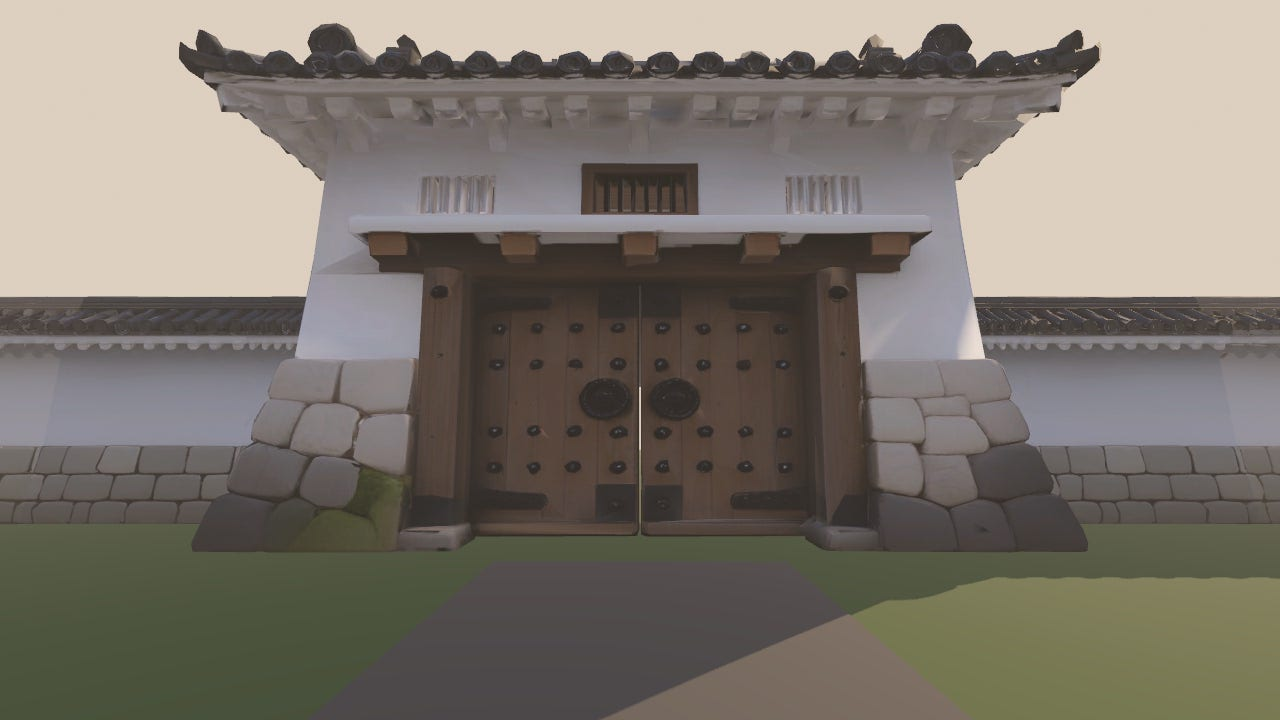
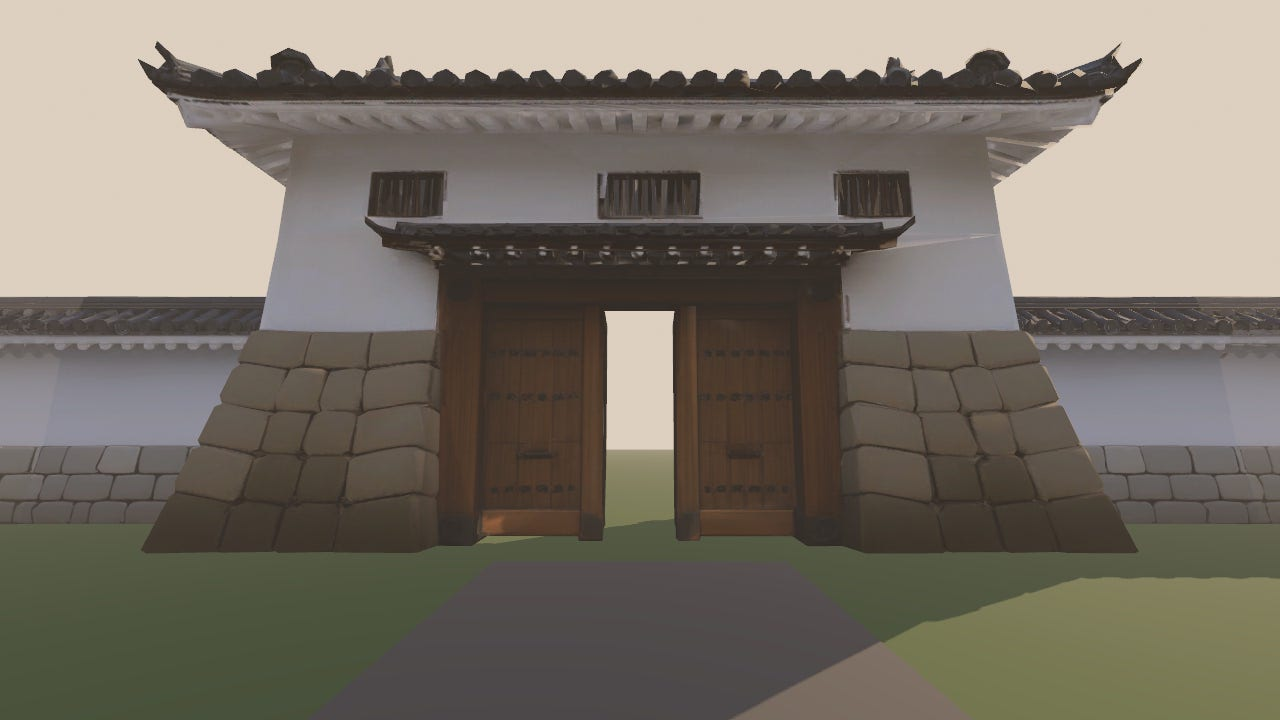
Courtyard docs: batch 4 + LOD rework (DEVIATIONS #29-#33, INTEGRATION_PLAN §14, final 16-item inventory, credits, screenshots 01-15)

diff --git a/docs/courtyard/DEVIATIONS.md b/docs/courtyard/DEVIATIONS.md
@@ -39,8 +39,13 @@ The deviations below are about file locations, graybox detail and fitting the de
 | 24 | P5 / P6 bridge spurs: straight strips z −10 → 10 across the pond | Each strip is split into `<name>N` (z −10 → −5) and `<name>S` (5 → 10); nothing is drawn over the water. | With the real slab deck at y 0, P6's strip sat 2 cm above the deck and hid it; P5's strip floated over the water under the arch. Visual only; nav and colliders unchanged. |
 | 25 | Slab bridge `BRIDGE_SLAB` at (26, 0, 0), yaw 90, 11 × 0.4 × 2.0 m, "1 deck box + 2 rails" | BJORN's `bridge_stone_slab_deck2m.glb` (deck 2.0 m wide) rather than the main `bridge_stone_slab.glb` (2.667 m). Only the variant is copied (`sync_assets.py --apply bridge_stone_slab --variant deck2m`; `MODEL_VARIANT` makes the generator load it), so the main filename is never needed in the repo. `model_offset` y −0.394: deck top at y 0.000 (−0.005 … +0.002 along the walkable deck; the last few cm bevel to −0.05), supports bottom out at −0.394 (0.094 m under the water at −0.30). Rails are **invisible** box colliders at x ±1.075 from the centre, top 0.90 m above the deck. `AUTHORED_SIZE` 11 × 0.4 × 2.667 for the size check (the GLB's AABB includes the support blocks). | Kirk's instruction (8:38 PM). The model has no visible rails, so the rail colliders are invisible walls; BJORN asked for visible rails or a note. The deck ends overlap the banks by 0.5 m and sit under the path strips, so there is no lip or z-fight. Checked: nav crossing PASS (path low y 0.40 on the navmesh, 16.0 m, within 1 m of x 26 over the pond), rails 0.90 m above the deck at all 10 probe points, camera clearance PASS on the deck. The v1 slab albedo (mean RGB 150/150/139) read near-white in sunlight next to the wall stone; BJORN's albedo v2 (LOD pack, mean 112/108/95) replaces it, same mesh and fit (the `_v1` backups in his library are not copied). Rails stay invisible 0.9 m colliders, confirmed as Bill's design. |
 | 26 | Trees at node scale (1, 1, 1): pine 6 × 7 × 6, maple 5 × 5 × 5 (Bill's boxes); PINE3 yaw 134, PINE6 yaw 335 (batch 3 used 88 / 312, #23) | Per BJORN's LOD-pack handoff the model node is scaled non-uniformly: pine (1, 1, 1.3) → 6.25 × 7 × 4.66 m, maple (1.237, 1, 1.238) → 5 × 5 × 5 m (`MODEL_FIT` `scale_xyz`; the prefab's trunk collider is unchanged). With the deeper pine canopy PINE3 at yaw 88 clipped the east wall WE11 by 0.01 m and PINE6 at 312 clipped the NE turret TNE by 0.04 m, so the yaws were re-searched over 360° (`tree_fit.py`, eave-inclusive AABBs): **PINE3 92, PINE6 304**, the best clearances available, **0.10 m and 0.05 m** (batch 3 had ≥ 0.25 m). Positions unchanged. | Kirk's instruction (9:35 PM). `tree_fit.py`: 0 clips at 0.05 m margin. Check: all trees outside the 40 × 40 combat square, spawns / routes / camera clearance PASS. The small clearances are canopy-to-eave in the air (no collision, canopies don't collide); worth a windowed look at PINE3 / PINE6. |
-| 27 | No LODs in the blueprint; batch 2/3 used Godot's generated mesh LOD (walls `lod_bias` 0.3) and tree `visibility_range_end` 100 m (#21) | BJORN's hand-made LODs are wired as distance LODs: each prefab's Model holder has children LOD0…LODn with `visibility_range_begin/end`, **FADE_SELF** dithered crossfade, each level begins where the previous ends with margin = fade width (`courtyard_prop.gd` `model_lod_*`, `gen_graybox.MODEL_LODS`). Distances (camera to mesh AABB centre): **wall** lod1 20 m / lod2 45 m (fade 2 m); **turret** 30 / 60 m; **barracks** 30 / 55 m; **kura** 25 / 50 m; **trees** lod3k 25 m (fade 3 m). The wall `lod_bias` 0.3 and tree vis_end 100 m are removed (trees are now drawn at any distance). The tree lod3k files and `corner_turret_lod1` reuse LOD0's materials (same UVs; their embedded textures are discarded on import, `vram_textures.py`), so they add no textures to git or VRAM; the other LODs have rebaked textures/UVs and keep their own. Tree LOD size check is ±15% (others ±5%) because the pine lod3k canopy is 12% shallower in z than LOD0. | Kirk's instruction (9:35 PM): third-person camera (4.2 m arm), 80 m compound — LOD0 covers the combat area around the player, lod1 mid-compound, lod2 the far walls and long views. Check: every level on every instance, 1 shared mesh per level, contiguous ranges, AABB within tolerance and centre offset < 0.15 m. Mixed wall LODs: all three span x −2.000…2.000 at the same height; joint outline steps at LOD0/LOD1/LOD2 joints are no worse than LOD0/LOD0 (`wall_lod_seams.py`); no gap seen in screenshot 08. |
-| 28 | Rocks: `ROCKL1–4` 3 × 2 × 2.5 m, collider "box 2.6 × 1.8 × 2.1"; `ROCKS1–10` 0.8 × 0.4 × 0.6 m, collider "none" | BJORN batch 4 rocks, main and `_b` variant alternating over Bill's instances (`INSTANCE_VARIANT`: ROCKL2/4 and the even ROCKS use `_b`, each with its own prefab `<asset>_b.tscn`). Scales: `rock_formation_large` 1.0, `_b` 0.9; both clusters 0.9 (BJORN: 0.85–1.0). Collision is **one box per variant**, fitted to the model's vertices above y 0.3 m (the moss skirt below is walk-through), full model height — the small clusters get a box too (Bill had none). Size check tolerance per axis −25…+10% (large) and −40…+25% (clusters) (`SIZE_TOL`), since natural rock shapes don't fill Bill's box: large 2.78 × 1.98 × 2.70 (−7 / −1 / +8%), large_b 3.06 × 1.94 × 1.99 (+2 / −3 / −21%), cluster 0.60 × 0.43 × 0.57 (−25 / +9 / −4%), cluster_b 0.52 × 0.50 × 0.52 (−35 / +24 / −14%). Small clusters are culled beyond 45 m (+5 m margin); Bill's MultiMesh note for the small rocks is not used (10 instances, 2 meshes). `rock_medium` stays graybox (BJORN is regenerating it). | Kirk's instruction (9:35 PM: simple box/convex collision, low-poly only, keep the nav cull above 1.8 m). Check: nav cull unchanged (0 navmesh vertices above 2 m), every small cluster can be walked round (1.5 m ring, paths < 10 m, longest 5.6 m), all rocks outside the combat square, collider tops within 5% of the model height and footprints inside the model. |
+| 27 | No LODs in the blueprint; batch 2/3 used Godot's generated mesh LOD (walls `lod_bias` 0.3) and tree `visibility_range_end` 100 m (#21) | BJORN's hand-made LODs are wired as distance LODs: each prefab's Model holder has children LOD0…LODn with `visibility_range_begin/end`, **FADE_SELF** dithered crossfade, each level begins where the previous ends with margin = fade width (`courtyard_prop.gd` `model_lod_*`, `gen_graybox.MODEL_LODS`). Distances (camera to mesh AABB centre): **wall** lod1 20 m / lod2 45 m (fade 2 m); **turret** 30 / 60 m; **barracks** 30 / 55 m; **kura** 25 / 50 m (since #33: LOD0 → lod2 at 35 m, no lod1); **trees** lod3k 25 m (fade 3 m). The wall `lod_bias` 0.3 and tree vis_end 100 m are removed (trees are now drawn at any distance). The tree lod3k files and `corner_turret_lod1` reuse LOD0's materials (same UVs; their embedded textures are discarded on import, `vram_textures.py`), so they add no textures to git or VRAM; the other LODs have rebaked textures/UVs and keep their own. Tree LOD size check is ±15% (others ±5%) because the pine lod3k canopy is 12% shallower in z than LOD0. (Superseded by #33: wall/barracks lod1 now share LOD0's textures too, and the tree check is back to ±5% since BJORN's corrected pine lod3k matches LOD0.) | Kirk's instruction (9:35 PM): third-person camera (4.2 m arm), 80 m compound — LOD0 covers the combat area around the player, lod1 mid-compound, lod2 the far walls and long views. Check: every level on every instance, 1 shared mesh per level, contiguous ranges, AABB within tolerance and centre offset < 0.15 m. Mixed wall LODs: all three span x −2.000…2.000 at the same height; joint outline steps at LOD0/LOD1/LOD2 joints are no worse than LOD0/LOD0 (`wall_lod_seams.py`); no gap seen in screenshot 08. |
+| 28 | Rocks: `ROCKL1–4` 3 × 2 × 2.5 m, collider "box 2.6 × 1.8 × 2.1"; `ROCKS1–10` 0.8 × 0.4 × 0.6 m, collider "none" | BJORN batch 4 rocks, main and `_b` variant alternating over Bill's instances (`INSTANCE_VARIANT`: ROCKL2/4 and the even ROCKS use `_b`, each with its own prefab `<asset>_b.tscn`). Scales: `rock_formation_large` 1.0, `_b` 0.9; both clusters 0.9 (BJORN: 0.85–1.0). Collision is **one box per variant**, fitted to the model's vertices above y 0.3 m (the moss skirt below is walk-through), full model height — the small clusters get a box too (Bill had none). Size check tolerance per axis −25…+10% (large) and −40…+25% (clusters) (`SIZE_TOL`), since natural rock shapes don't fill Bill's box: large 2.78 × 1.98 × 2.70 (−7 / −1 / +8%), large_b 3.06 × 1.94 × 1.99 (+2 / −3 / −21%), cluster 0.60 × 0.43 × 0.57 (−25 / +9 / −4%), cluster_b 0.52 × 0.50 × 0.52 (−35 / +24 / −14%). Small clusters are culled beyond 45 m (+5 m margin); Bill's MultiMesh note for the small rocks is not used (10 instances, 2 meshes). `rock_medium` was graybox here; BJORN's regenerated boulder replaced it in batch 4 (#32). | Kirk's instruction (9:35 PM: simple box/convex collision, low-poly only, keep the nav cull above 1.8 m). Check: nav cull unchanged (0 navmesh vertices above 2 m), every small cluster can be walked round (1.5 m ring, paths < 10 m, longest 5.6 m), all rocks outside the combat square, collider tops within 5% of the model height and footprints inside the model. |
+| 29 | Pond rim `PSTONE1–7`: 2 × 0.5 × 0.8 m on the pond ellipse, Bill's (x, z, yaw); collider "none (pond fence handles blocking)" | BJORN's batch 4 `pond_edge_stones_2m` (+ `_b` on PSTONE2/4/6). His stones are low (main 0.226 m, `_b` 0.284 m tall), so the node is scaled **main (1, 2.0, 1.4)**, **`_b` (1, 1.6, 1.4)** (Kirk suggested ~(1, 1.6, 1.4); the main file needs 2.0 in Y to reach the same height) and sunk 0.32 m: every stone spans y −0.32 … +0.13 (water −0.30, bank 0.00), 2.00 × 0.45 × 0.62 / 0.69 m (Bill 0.5 × 0.8: depth −22 / −14%, size tolerance −25…+10%). **Moved off the slab bridge:** PSTONE3 (28.40, 4.7, yaw 162; Bill x 28.12 was 0.03 m into the slab), PSTONE4 (24.30, 1.29, yaw 90; Bill 24.69 / 106 was 0.47 m into the slab), PSTONE5 (24.30, −1.29, 90; Bill 0.35 m in), PSTONE6 (28.40, −4.7, 18; Bill 0.01 m in) — `PLACE_OVERRIDE`, `tools/courtyard/pond_fit.py`. **Collision: one box per stone** in `Collision/PondStones`, fitted to the model at node scale (Kirk: "use simple collision"; Bill had none). | Kirk's batch 4 instruction (10:37 PM). `pond_fit.py`: clear (PSTONE3 0.43 m from the arch, 0.25 m from the slab; PSTONE6 0.39 / 0.27 m). Check: 0 stone colliders over either bridge's ends or the P5 / P6 paths, 0 overlaps with bridge colliders, no navmesh on any stone (nearest 0.80 m), pond basin still not navigable, no coplanar faces with the bank or water (stones cross both planes; no z-fighting seen in shots 10 / 11). PSTONE1 sits half over the water on the east side, as on Bill's ellipse. |
+| 30 | `SHRUB1–12` shrub_azalea 1.6 × 1.0 × 1.6 m, collider "none", MultiMesh suggested | BJORN's `shrub_azalea` (+ `_b` on the even shrubs), node Y ×1.2 → 1.49 × 1.30 × 1.48 m (−7 / **+30** / −8%; tolerance −10…+31%). The main file is sunk 0.08 m to hide its stem cone. **No collision** (Bill's spec, agent3_handoff); hidden beyond 45 m (+5 m margin). Plain instances, not MultiMesh (12 instances, 2 meshes). | Kirk's instruction. Check: 12 placed (6 `_b`), 0 collision shapes, spawns / routes / camera clearance PASS. |
+| 31 | `GATE` main_gate_yaguramon 16 × 10 × 8 m at (0, 34), yaw 180, "box (doors closed)" | `main_gate_yaguramon_wide.glb` (15.34 × 10.43 × 8.32 m, −4 / +4 / +4%) replaces the 14.67 m gate; BJORN's doors are on the GLB's +Z face, placed at Bill's yaw 180 like the old gate (doors on the courtyard side; they are modelled slightly ajar). Closed-door **blocking box** refitted to the mesh: x ±7.08, z 30.16 … 37.82, h 10.43 (was ±6.76, 30.68 …, 10.91). The old gate GLB and its 3 textures are removed from the repo (not referenced). **Gate-side fillers:** the side walls are a battered shell (outer face x 7.09 at the ground, 6.17 at the wall top), still short of the wall runs' ends at x ±8, so both fillers (WS07_FillB, WS08_FillA) stay, shortened from 2.2 m to **2.0 m** (inner edge x ±6.0). **Gap the fillers cover, before → after:** ground 1.22 → **0.92 m**, wall top (4.74 m) 2.30 → **1.83 m** per side. No filler could be removed. | Kirk's batch 4 instruction. Check: gate collider at z 30.16, gate roof not walkable, GateC/W/E spawns and routes PASS; shots 05, 12, 13 show the gate-to-wall joints closed from both sides. |
+| 32 | `ROCKM1–8` rock_medium 1.5 × 1.0 × 1.2 m, collider "box 1.3 × 0.9 × 1.0" (was graybox in #28) | BJORN's regenerated low boulder (exactly 1.50 × 1.00 × 1.20 m), sunk 0.03 m, at Bill's 8 positions and yaws. One box collider **1.44 × 0.98 × 1.10 m** (top 0.95 m), fitted inside the model rather than Bill's 1.3 × 0.9 × 1.0, so the player doesn't visibly stand off the rock. `rock_medium_stool.glb` is not copied. | Kirk's instruction (sink 0.02–0.05 m, one box). Check: 8 placed, all outside the combat square, collider inside the model. |
+| 33 | LODs per #27: wall/barracks/kura lod1 with rebaked textures | BJORN's texture-sharing rework: **wall lod1 (7,588 tris), barracks lod1 (8,650), turret lod1 (5,400) and all three tree lod3k reuse LOD0's textures** (the GLBs reference LOD0's extracted files by URI; `model_lod_share_materials`). wall / barracks / kura **lod2** keep their own 256 px textures (JPEG albedo). **Kura lod1 dropped** (5,446 tris, 91% of LOD0): kura goes LOD0 → lod2 at **35 m** (was lod1 25 / lod2 50). The old extracted lod1 / lod2 textures are removed. Tree LOD size tolerance tightened from ±15% to **±5%** (pine lod3k now matches LOD0: 0%, maple −3.7%, sakura −1.7%). Barracks lod1 / lod2 sit at y 0 with full height. | Parent/BJORN LOD rework (10:46 PM). The seam-preserving lod1s are heavier (wall 5,000 → 7,588, barracks 5,379 → 8,650), so primitives per view rose 2–31% while git and texture memory fell. `wall_lod_seams.py`: LOD0\|LOD1 joint p90 0.932 (was 0.954; LOD0\|LOD0 baseline 0.949), LOD2 joints unchanged. Turret lod1 still floats 1.3 cm (BJORN item). `ref_check.gd`: 0 broken, 0 unreferenced. |
 
 ## Fixed: rotation bug in the generator (affects the first graybox commit `ffcf394`)
 `gen_graybox.py` wrote the basis into the `Transform3D(...)` literal column by column, but

diff --git a/docs/courtyard/INTEGRATION_PLAN.md b/docs/courtyard/INTEGRATION_PLAN.md
@@ -469,3 +469,85 @@ and `08_wall_lod_seam` (LOD0/LOD1 wall boundary). Seen in the screenshots: LOD b
 in the tinted views, no gap at the wall LOD boundary, slab less white, rocks seated on the ground
 (the grey spheres are graybox `rock_medium`). Crossfade quality and popping need a windowed,
 moving-camera look; a headless/llvmpipe still frame can't show them.
+
+## 14. BJORN batch 4 final and the LOD texture-sharing rework (Oct 30, 2026, ~11:00 PM EDT)
+Integrated from `/workspace/kengeki_assets/library/Courtyard/` (read only; HANDOFF batch 4 notes and the
+corrected LOD section). This completes Bill's 16-item inventory: every item is placed with a BJORN mesh, no
+graybox stand-ins remain (final table in `environment/courtyard/assets/ASSETS.md`).
+
+**Pond stones (DEVIATIONS #29).** `pond_edge_stones_2m` + `_b`, 7 stones, node scale main (1, 2.0, 1.4) /
+`_b` (1, 1.6, 1.4), sunk 0.32 m so each stone crosses the water and bank planes (no coplanar faces).
+PSTONE3–6 moved 0.1–0.4 m off the slab bridge (Bill's spots were 0.01–0.47 m inside it; `pond_fit.py`).
+One box collider each (`Collision/PondStones`); none over the bridge ends or the P5/P6 paths; the basin
+stays non-walkable.
+
+**Shrubs (#30).** `shrub_azalea` + `_b`, 12 shrubs, Y ×1.2, main sunk 0.08 m, no collision (Bill's
+spec), hidden beyond 45 m.
+
+**Gate (#31).** `main_gate_yaguramon_wide.glb` (15.34 m) replaces the 14.67 m gate (removed from the
+repo). Closed-door blocking box refitted (x ±7.08, z 30.16…37.82, h 10.43). It is still short of the wall
+ends at x ±8, so both gate fillers stay, shortened 2.2 → 2.0 m. Gap per side: ground 1.22 → 0.92 m,
+wall top 2.30 → 1.83 m.
+
+**rock_medium (#32).** BJORN's 1.5 × 1.0 × 1.2 m boulder at Bill's 8 positions, sunk 0.03 m, one box
+collider 1.44 × 0.98 × 1.10 m. `rock_medium_stool` not copied.
+
+**LOD rework (#33).** Wall lod1 (7,588), barracks lod1 (8,650), turret lod1 and the three tree lod3k use
+LOD0's texture files (no textures of their own); wall/barracks/kura lod2 have their own 256 px textures
+(JPEG albedo). Kura lod1 dropped: LOD0 → lod2 at 35 m. Old extracted lod1/lod2 textures removed. Tree
+LOD size check back to ±5%. Wall seams (`wall_lod_seams.py`): LOD0|LOD1 joint p90 0.954 → 0.932 m
+(LOD0|LOD0 baseline 0.949), LOD2 joints unchanged.
+
+**Checks (headless, not visual/gameplay verification).** `check_courtyard.gd` PASS, 318 checks, 0 FAIL
+(navmesh 442 polygons / 404 vertices, 0 above 2 m; spawns, routes, camera clearance, combat area,
+pond basin, bridge crossings, gate collider, the new pond stone / shrub / rock_medium / filler checks).
+`ref_check.gd` (new): 113 roots, 223 resources reached, 0 broken references, 0 unreferenced courtyard
+textures/GLBs (the unused 25k lantern is allowlisted, DEVIATIONS #14). Gameplay tests 109 passed /
+8 failed (the same 8 pre-existing character/animation/sheathe failures).
+
+**Budget** (`python3 tools/courtyard/asset_budget.py --files`):
+
+| | Before (`a3288d7`) | After batch 4 + LOD rework |
+|---|---|---|
+| Scene triangles at LOD0 (instanced) | 1,433,382 (170,120 unique) | 1,487,064 (180,066 unique) |
+| Triangles drawn from the combat centre (LOD selection, no frustum culling) | 443,062 | 586,307 |
+| Texture VRAM (BJORN assets, compressed) | 54.53 MB | 53.96 MB |
+| Git cost (referenced GLBs + extracted textures) | 100.57 MB | 91.23 MB |
+
+Git cost without the batch 4 additions (stones 2.69, shrubs 3.48, rock_medium 0.72, wide gate +0.77
+over the old gate) is 83.57 MB, in line with BJORN's ~83.9 MB estimate for the LOD rework alone. With
+batch 4 but the old LODs it was 108.24 MB. The drawn-from-centre count rises because the seam-preserving
+lod1s are heavier (wall 5,000 → 7,588 × 78 instances) and batch 4 adds ~30k triangles near the centre.
+Not counted: the unreferenced 25k lantern (18.80 MB in git).
+
+**Render cost** (windowed llvmpipe, primitives include shadow passes):
+
+| View | Draw calls before → after | Primitives before → after |
+|---|---|---|
+| 01 overview from gate | 86 → 88 | 360,332 → 413,568 (+15%) |
+| 02 combat centre, eye height | 56 → 54 | 284,929 → 309,504 (+9%) |
+| 03 pond + arch bridge | 76 → 78 | 464,567 → 610,355 (+31%) |
+| 04 wall / turret seam | 26 → 26 | 545,356 → 555,708 (+2%) |
+| 05 gate interior | 18 → 18 | 331,138 → 344,078 (+4%) |
+| 06 keep backdrop | 33 → 33 | 404,668 → 484,998 (+20%) |
+| 07 LOD overview | 118 → 114 | 566,876 → 654,064 (+15%) |
+| 08 wall LOD seam | 101 → 103 | 720,964 → 800,030 (+11%) |
+| 09 long-range | 83 → 78 | 234,573 → 241,133 (+3%) |
+| **Total 01–09** | **597 → 592** | **3,913,403 → 4,413,438 (+13%)** |
+| 10 pond stones close (21.5, 1.9, −7.5 → 28, 0, 0) | new | 79 / 642,573 |
+| 11 pond stones east (33, 1.6, 6.5 → 30, 0, −1) | new | 113 / 662,936 |
+| 12 gate exterior (10, 3, 48 → 0, 4, 34) | new | 81 / 600,452 |
+| 13 gate seam close (−11, 2, 27.5 → −7, 3, 32) | new | 39 / 452,874 |
+| 14 shrubs + rock close (19, 1.7, −8 → 24, 0.5, −12) | new | 84 / 916,523 |
+| 15 shrub + rock west (−22, 1.7, −14 → −27, 0.5, −19) | new | 45 / 587,338 |
+
+Split for 01–06 (batch 4 with the old LODs, then the LOD rework): batch 4 alone took the total from
+2,390,990 to 2,487,530 (+4%), the heavier lod1s to 2,718,211 (+9%).
+
+**Screenshots** replaced (`docs/courtyard/screenshots/`, `/workspace/kengeki_shots/`); the previous set is
+in `/workspace/kengeki_shots/before_batch4/`. Seen in the stills: stones line the pond with no visible
+z-fighting (they read pale, and one top has a dark patch); shrubs read well with a slightly dark base ring;
+rock_medium sits on the ground; the gate meets the walls with no gap from inside (05, 13) or outside (12);
+LOD bands in the tinted views as expected (kura shows lod2 in the lod1 colour, since it has only one
+lower level); no gap at the wall LOD boundary (08). Crossfades and popping need a windowed,
+moving-camera look.

diff --git a/environment/courtyard/assets/ASSETS.md b/environment/courtyard/assets/ASSETS.md
@@ -48,3 +48,35 @@
[3 lines of base64/hex data omitted]
+
+## Final inventory against Bill's 16 items (batch 4 complete, Oct 30, 2026 ~11:00 PM EDT)
+All 16 of Bill's inventory items, plus his two reuse items, are placed with BJORN's meshes; no graybox stand-ins
+remain. Triangles are per mesh (LOD0 / LODs). Git is the committed GLB plus its extracted textures, in MB
+(`python3 tools/courtyard/asset_budget.py --files`). Deviation numbers refer to `docs/courtyard/DEVIATIONS.md`.
+The copy ledger above is append-only: where a file appears twice the later row is current, and the rows for
+`main_gate_yaguramon.glb` and `storehouse_kura_lod1.glb` are history (both removed in `5af7d00`).
+
+| # | Bill's item | Placed | Instances (Bill) | File(s) in the repo | Tris LOD0 / LODs | Git (MB) | Deviations |
+|---|---|---|---|---|---|---|---|
+| 1 | wall_segment_4m | Yes | 78 (68 + 10 fillers) | `wall_segment_4m.glb`, `_lod1.glb` (shares LOD0 textures), `_lod2.glb` | 13,134 / 7,588 / 404 | 5.94 | #6, #13, #16, #20, #21, #27, #31, #33 |
+| 2 | main_gate_yaguramon | Yes | 1 (1) | `main_gate_yaguramon_wide.glb` | 20,000 | 5.89 | #13, #20, #31 |
+| 3 | corner_turret | Yes | 4 (4) | `corner_turret.glb`, `_lod1.glb` (shared), `_lod2.glb` | 12,000 / 5,400 / 1,997 | 7.04 | #13, #20, #27, #33 |
+| 4 | main_hall_goten | Yes | 1 (1) | `main_hall_goten.glb` | 25,000 | 6.23 | #15, #20 |
+| 5 | bridge_arched_taikobashi | Yes | 1 (1) | `bridge_arched_taikobashi.glb` | 8,000 | 4.59 | #8, #17 |
+| 6 | barracks_nagaya | Yes | 1 (1) | `barracks_nagaya.glb`, `_lod1.glb` (shared), `_lod2.glb` | 12,000 / 8,650 / 1,978 | 5.83 | #15, #18, #27, #33 |
+| 7 | storehouse_kura | Yes | 1 (1) | `storehouse_kura.glb`, `_lod2.glb` (lod1 skipped) | 6,000 / 1,000 | 5.25 | #15, #27, #33 |
+| 8 | castle_keep_tenshu | Yes | 1 (1) | `castle_keep_tenshu.glb` | 20,000 | 5.30 | #18 |
+| 9 | bridge_stone_slab | Yes | 1 (1) | `bridge_stone_slab_deck2m.glb` (albedo v2) | 2,000 | 5.50 | #24, #25 |
+| 10 | tree_pine_kuromatsu | Yes | 6 (6) | `tree_pine_kuromatsu.glb`, `_lod3k.glb` (shared) | 12,000 / 4,000 | 6.65 | #23, #26, #27, #33 |
+| 11 | tree_sakura | Yes | 5 (5) | `tree_sakura.glb`, `_lod3k.glb` (shared) | 11,986 / 3,491 | 5.97 | #23, #27, #33 |
+| 12 | tree_maple_momiji | Yes | 3 (3) | `tree_maple_momiji.glb`, `_lod3k.glb` (shared) | 10,000 / 3,986 | 5.21 | #23, #26, #27, #33 |
+| 13 | rock_formation_large | Yes | 4 (4) | `rock_formation_large.glb`, `_b.glb` | 4,000 / 4,000 | 8.61 | #28 |
+| 14 | rock_medium | Yes | 8 (8) | `rock_medium.glb` (`rock_medium_stool` not copied) | 2,000 | 0.72 | #32 |
+| 15 | pond_edge_stones_2m | Yes | 7 (7) | `pond_edge_stones_2m.glb`, `_b.glb` | 2,000 / 1,998 | 2.69 | #29 |
+| 16 | shrub_azalea | Yes | 12 (12) | `shrub_azalea.glb`, `_b.glb` | 1,970 / 1,978 | 3.48 | #30 |
+| – | stone_lantern_toro_2m (reuse) | Yes | 10 (10) | `stone_lantern_toro_lod8k.glb` | 8,000 | 3.54 | #11, #14 |
+| – | rock_small_cluster (reuse) | Yes | 10 (10) | `rock_small_cluster.glb`, `_b.glb` | 1,000 / 1,000 | 2.78 | #28 |
+| | **Total (referenced)** | **18 / 18** | | 32 GLBs | 180,066 unique LOD0 | **91.23** | |
+
+Not in the table: the first 25k lantern (`stone_lantern_toro.glb` + 3 extracted textures, 18.80 MB in git: 9.8 MB GLB + 9.0 MB PNG) is still committed but not
+referenced by any scene (DEVIATIONS #14); `tools/courtyard/ref_check.gd` allowlists it. Removing it is Kirk's call.

diff --git a/environment/courtyard/assets/CREDITS.md b/environment/courtyard/assets/CREDITS.md
@@ -15,7 +15,7 @@ build box (not legal advice; some terms are still unverified there).
 | `Decorations/stone_lantern_toro` (`stone_lantern_toro_lod8k.glb`) | Tencent Hunyuan 3D (AI-generated) | BJORN pipeline: 50,012 → 8,000 tris, 1024² textures (JPEG albedo), scaled to 2.0 m |
 | `Courtyard/wall_segment_4m` | Tencent Hunyuan 3D (AI-generated) | BJORN pipeline: 13,134 tris, 3 × 1024² textures, 4.00 × 4.74 × 1.59 m, tiling ends checked |
 | `Courtyard/corner_turret` | Tencent Hunyuan 3D (AI-generated) | BJORN pipeline: 12,000 tris, 2048² albedo (JPEG) + 1024² data maps, 7.48 × 10.72 × 7.46 m |
-| `Courtyard/main_gate_yaguramon` | Tencent Hunyuan 3D (AI-generated) | BJORN pipeline: 20,000 tris, 2048² albedo (JPEG) + 1024² data maps, 14.67 × 10.91 × 8.00 m |
+| `Courtyard/main_gate_yaguramon` (`main_gate_yaguramon_wide.glb`) | Tencent Hunyuan 3D (AI-generated) | BJORN pipeline batch 4: 20,000 tris, JPEG albedo + data maps, 15.34 × 10.43 × 8.32 m, doors on +Z (replaces the 14.67 m gate, removed) |
 | `Courtyard/main_hall_goten` | Tencent Hunyuan 3D (AI-generated) | BJORN pipeline: 50,004 → 25,000 tris, 2048² albedo (JPEG) + 1024² data maps, 22.93 × 9.42 × 12.00 m |
 | `Courtyard/bridge_arched_taikobashi` | Tencent Hunyuan 3D (AI-generated) | BJORN pipeline: 8,000 tris, 1024² textures, non-uniform fit to 13 × 1.8 × 2.4 m (anisotropy 3.14). v2 (Oct 30, 8:06 PM EDT): symmetric, 8 piers extended down, origin at the pier bottoms, 13 × 2.05 × 2.4 m, 8,000 tris; v1 stays in git history and in BJORN's library as `_v1.glb` |
 | `Courtyard/barracks_nagaya` | Tencent Hunyuan 3D (AI-generated) | BJORN pipeline: 12,000 tris, 1024² textures (JPEG albedo), 24 × 6 × 6 m |
@@ -33,3 +33,7 @@ build box (not legal advice; some terms are still unverified there).
 | `Courtyard/bridge_stone_slab` (albedo v2) | Tencent Hunyuan 3D (AI-generated) | BJORN pipeline: albedo regraded darker (mean RGB 150/150/139 → 112/108/95), same mesh |
 | `Courtyard/rock_formation_large` (+ `_b`) | Tencent Hunyuan 3D (AI-generated) | BJORN pipeline batch 4: 4,000 tris each, 2.78 × 1.98 × 2.70 m / 3.40 × 2.15 × 2.21 m (`_b`, used at 0.9) |
 | `Courtyard/rock_small_cluster` (+ `_b`) | Tencent Hunyuan 3D (AI-generated) | BJORN pipeline batch 4: 1,000 tris each, used at 0.9 scale |
+| `Courtyard/pond_edge_stones_2m` (+ `_b`) | Tencent Hunyuan 3D (AI-generated) | BJORN pipeline batch 4: 2,000 / 1,998 tris, 2.00 × 0.226 × 0.443 m / 2.00 × 0.284 × 0.490 m, scaled up in the scene |
+| `Courtyard/shrub_azalea` (+ `_b`) | Tencent Hunyuan 3D (AI-generated) | BJORN pipeline batch 4: 1,970 / 1,978 tris, ~1.49 × 1.08 × 1.48 m (Y ×1.2 in the scene) |
+| `Courtyard/rock_medium` | Tencent Hunyuan 3D (AI-generated) | BJORN pipeline batch 4 (regenerated): 2,000 tris, 1.5 × 1.0 × 1.2 m low boulder |
+| LOD rework (wall / barracks lod1, all lod2, turret lod1, tree lod3k) | Tencent Hunyuan 3D (AI-generated) | BJORN pipeline: lod1 and lod3k reuse LOD0's textures; wall / barracks / kura lod2 own 256 px textures; kura lod1 not used |
